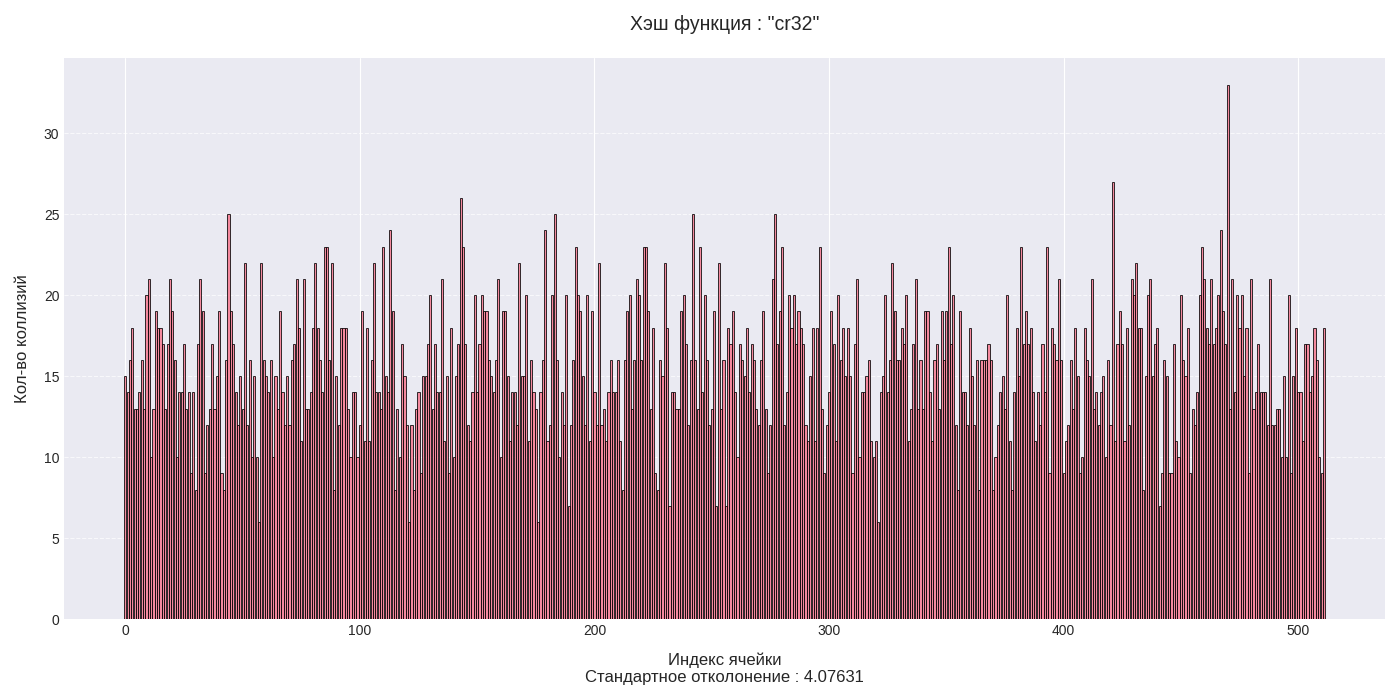
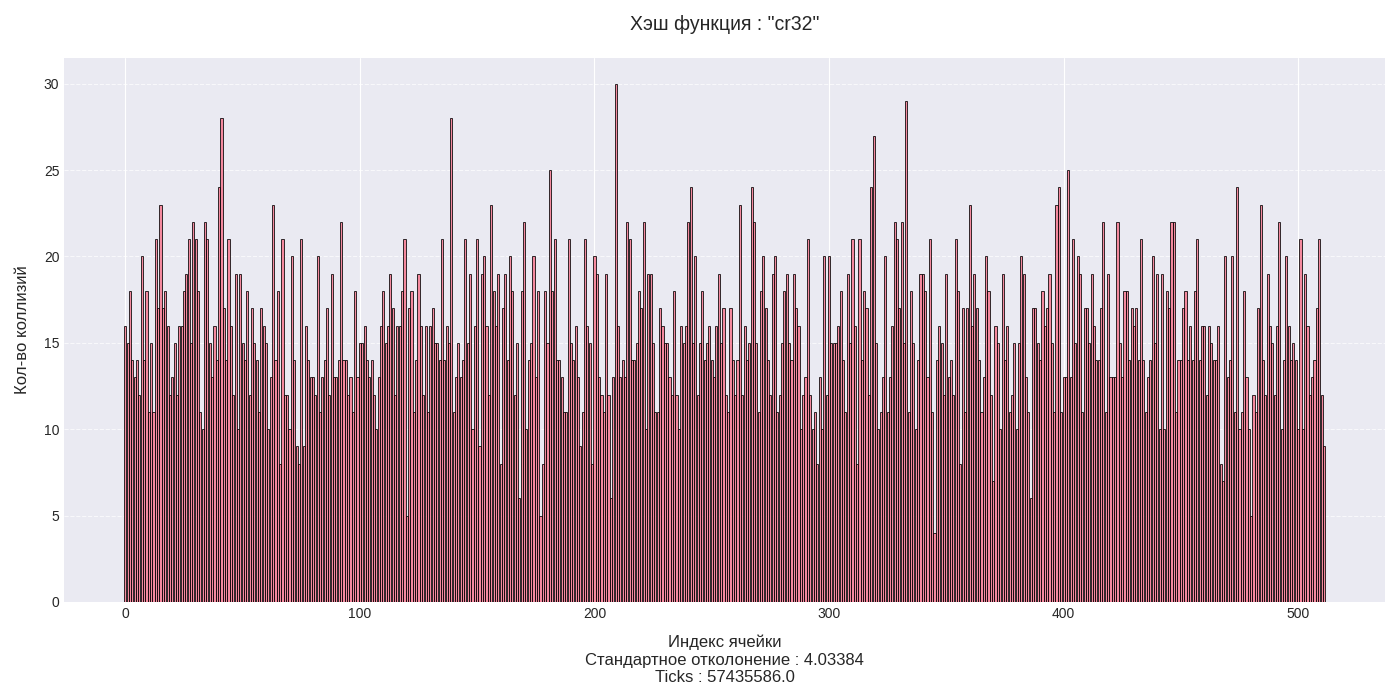
done hash functions analysis

Changed region(s): [[0.0614, 0.27, 0.9521, 0.72], [0.0921, 0.84, 0.9521, 0.99], [0.0, 0.39, 0.0307, 0.57]]

diff --git a/run.py b/run.py
@@ -8,14 +8,14 @@ import matplotlib.pyplot as plt
 import seaborn as sns
 
 # CONFIG
-HASH_FUNCS_NAMES = ["poly", "cr32", "fchar", "fnv"]
+HASH_FUNCS_NAMES = ["poly", "cr32", "cr32_intrinsic", "fchar", "fnv"]
 
 VERSIONS_DESCRIPTIONS = [
-        ["VERSION_0", "-march=native"],
-        ["VERSION_1", "-O3 -march=native -mtune=native"],
-        ["VERSION_2", "-O3 -march=native -mtune=native -D INTRINSIC_HASH"],
-        ["VERSION_3", "-O3 -march=native -mtune=native -D INTRINSIC_HASH -D MY_STREQ"],
-        ["VERSION_4", "-O3 -march=native -mtune=native -D INTRINSIC_HASH -D MY_STREQ -D ASM_INSERTION"]
+        ["VERSION_0", "-O0 -march=native", " --hash=cr32 "],
+        ["VERSION_1", "-O3 -march=native -mtune=native", " --hash=cr32 "],
+        ["VERSION_2", "-O3 -march=native -mtune=native", " --hash=cr32_intrinsic "],
+        ["VERSION_3", "-O3 -march=native -mtune=native -D MY_STREQ", " --hash=cr32_intrinsic "],
+        ["VERSION_4", "-O3 -march=native -mtune=native -D MY_STREQ -D ASM_INSERTION", " --hash=cr32_intrinsic "]
     ]
 
 
@@ -53,6 +53,7 @@ def prepare_testing_data(text_path, text_words_cnt, tests_cnt):
 
 # GENERAL_BENCHMARKING_FUNCS
 def execute_hash_tables_benchmarks(compile_flags, launch_flags):
+    print(f'compile_flags : {compile_flags}')
     os.system("make clean")
     os.system(f'make CFLAGS="{compile_flags}"')
     os.system(f'make launch LAUNCH_FLAGS="{launch_flags}"')
@@ -99,25 +100,28 @@ def launch_versions_benchmarks(measures_cnt):
 
     os.system(f'mkdir -p {outfile_dir}')
 
-    default_launch_flags = f'--runs={measures_cnt} --hash_func=cr32 --benchmark=ver --print=0'
+    default_launch_flags = f' --runs={measures_cnt} --benchmark=ver --print=0 '
 
     with open(outfile_path, "w") as file:
         for version in VERSIONS_DESCRIPTIONS:
             version_name = version[0]
             print(f'LAUNCH {version_name}')
+
             compile_flags = version[1]
-            file.write(f'{version_name} : {get_version_testing_time(compile_flags, default_launch_flags)}\n')
+            launch_flags = version[2] + default_launch_flags
+            file.write(f'{version_name} : {get_version_testing_time(compile_flags, launch_flags)}\n')
+
 
 
 # FUNCS FOR HASH FUNCTIONS BENCHMARKING
 def make_hash_res_file(outfile_path, hash_func_name):
-    compile_flags = ""
-    launch_flags = f' --output={outfile_path} --hash_func={hash_func_name} --benchmark=hash --print=0'
+    compile_flags = "-O3 -march=native -mtune=native"
+    launch_flags = f' --output={outfile_path} --hash={hash_func_name} --benchmark=hash --print=0'
 
     execute_hash_tables_benchmarks(compile_flags, launch_flags)
 
     with open(outfile_path, "r") as file:
-        measures_arr = list(map(int, file.read().split()))
+        measures_arr = list(map(int, file.readline().split()))
 
     standard_deviation = get_standard_deviation(measures_arr)
     with open(outfile_path, "a") as file:
@@ -126,6 +130,7 @@ def make_hash_res_file(outfile_path, hash_func_name):
 def build_hash_plot(data_path, img_path, hash_func_name):
     with open(data_path, "r") as file:
         measures_arr = list(map(int, file.readline().split()))
+        ticks_cnt = float(file.readline().split()[1])
         standard_deviation = float(file.readline().split()[1])
 
     plt.style.use('seaborn-v0_8-darkgrid')
@@ -138,7 +143,7 @@ def build_hash_plot(data_path, img_path, hash_func_name):
                 alpha=0.8, width=0.9)
 
     plt.title(f'Хэш функция : "{hash_func_name}"', fontsize=14, pad=20)
-    plt.xlabel(f'Индекс ячейки\nСтандартное отколонение : {round(standard_deviation, 5)}', fontsize=12, labelpad=10)
+    plt.xlabel(f'Индекс ячейки\nСтандартное отколонение : {round(standard_deviation, 5)}\nTicks : {ticks_cnt}', fontsize=12, labelpad=10)
     plt.ylabel('Кол-во коллизий', fontsize=12, labelpad=10)
     plt.yticks(fontsize=10)
 
@@ -231,7 +236,7 @@ if __name__ == "__main__":
     elif (sys.argv[1] == "versions_benchmarks"):
         print("launch 'versions_benchmarks'")
         measures_cnt = 20
-        if (len(sys.argv) >= 2):
+        if (len(sys.argv) >= 3):
             measures_cnt = int(sys.argv[2])
 
         launch_versions_benchmarks(measures_cnt)

diff --git a/src/benchmark_funcs.cpp b/src/benchmark_funcs.cpp
@@ -1,3 +1,4 @@
+#include <cstdint>
 #include <cstring>
 #include <immintrin.h>
 #include <assert.h>
@@ -5,6 +6,7 @@
 
 #include "args_proc.h"
 #include "general.h"
+#include "general_structs.h"
 #include "hash_funcs.h"
 #include "hash_table_32b.h"
 #include "benchmark_funcs.h"
@@ -15,6 +17,9 @@ hash_function_t choose_hash_function(char hash_function_name[]) {
 
     hash_function_t DEFAULT_HASH_FUNCTION = crc32_hash_func;
 
+    if (strncmp(hash_function_name, "cr32_intrinsic", MAX_CONFIG_NAME_SIZE) == 0) {
+        return crc32_intrinsic_hash_func;
+    }
     if (strncmp(hash_function_name, "cr32", MAX_CONFIG_NAME_SIZE) == 0) {
         return crc32_hash_func;
     }
@@ -27,10 +32,10 @@ hash_function_t choose_hash_function(char hash_function_name[]) {
     if (strncmp(hash_function_name, "fnv", MAX_CONFIG_NAME_SIZE) == 0) {
         return fnv1a_hash;
     }
-
-
     return DEFAULT_HASH_FUNCTION;
 }
+
+
 
 time_point_t set_time_point() {
     time_point_t time_point = {};
@@ -39,6 +44,23 @@ time_point_t set_time_point() {
     time_point.clock_point = clock();
 
     return time_point;
+}
+
+static volatile uint64_t dummy_variable = 0;
+void measure_hashing_time(hash_function_t hash_function, tests_data_t tests_data, time_point_t *duration) {
+    assert(tests_data.words_32b);
+    assert(duration);
+    assert(hash_function);
+
+    time_point_t start_point = set_time_point();
+    for (size_t i = 0; i < tests_data.words_cnt; i++) {
+        char *key_32b = tests_data.words_32b + i * WORD_32B_NMEMB;
+        dummy_variable = hash_function(key_32b, WORD_32B_NMEMB);
+    }
+    time_point_t end_point = set_time_point();
+
+    duration->clock_point = end_point.clock_point - start_point.clock_point;
+    duration->tick_point = end_point.tick_point - start_point.tick_point;
 }
 
 bool measure_testing_time(hash_table_32b_t *hash_table, tests_data_t tests_data, time_point_t *duration) {
@@ -85,6 +107,7 @@ bool run_hashes_benchmarks(config_t *config) {
     tests_data_t tests_data = {};
     FILE *benchmarks_res_file = NULL;
     hash_table_32b_t hash_table = {};
+    time_point_t duration = {};
 
     tests_data = load_text(TEXT_PATH);
     if (tests_data.words_32b == NULL) {
@@ -107,6 +130,9 @@ bool run_hashes_benchmarks(config_t *config) {
 
     store_text_in_hash_table(tests_data, &hash_table);
     hash_table_32b_dump_bucket_sizes(benchmarks_res_file, &hash_table);
+
+    measure_hashing_time(hash_table.hash_function, tests_data, &duration);
+    fprintf(benchmarks_res_file, "ticks %lu\n", duration.tick_point);
 
     free(tests_data.words_32b);
     fclose(benchmarks_res_file);

diff --git a/src/hash_funcs.cpp b/src/hash_funcs.cpp
@@ -2,7 +2,6 @@
 #include <immintrin.h>
 #include <stdint.h>
 
-#include "general_structs.h"
 #include "hash_funcs.h"
 
 
@@ -34,10 +33,8 @@ uint64_t fnv1a_hash(char *key, const size_t len) {
     return hash;
 }
 
-#ifndef INTRINSIC_HASH
-
 uint64_t crc32_hash_func(char *key, const size_t len) {
-    const uint64_t CR32_POLY = 0x04C11DB7;
+    const uint64_t CR32_POLY = 0x11EDC6F41;
     const unsigned char *buffer = (const unsigned char*) key;
     uint64_t crc = (uint64_t) -1;
 
@@ -53,16 +50,14 @@ uint64_t crc32_hash_func(char *key, const size_t len) {
     return ~crc;
 }
 
-#else
 #pragma GCC diagnostic ignored "-Wcast-align"
-uint64_t crc32_hash_func(char *key, const size_t len __attribute__((unused))) {
+uint64_t crc32_intrinsic_hash_func(char *key, const size_t len __attribute__((unused))) {
     uint64_t crc = 0;
 
-    crc = _mm_crc32_u64(crc, *(uint64_t*) key + 0); // FIXME: cast
+    crc = _mm_crc32_u64(crc, *(uint64_t*) key + 0);
     crc = _mm_crc32_u64(crc, *(uint64_t*) key + 1);
     crc = _mm_crc32_u64(crc, *(uint64_t*) key + 2);
     crc = _mm_crc32_u64(crc, *(uint64_t*) key + 3);
 
     return crc;
 }
-#endif // INTRINSIC_HASH

diff --git a/src/args_proc.cpp b/src/args_proc.cpp
@@ -22,7 +22,7 @@ void scan_argv(config_t *config, const int argc, const char *argv[]) {
     opt_data options[] =
     {
         {"-r", "--runs", "%d", &config->measures_cnt},
-        {"-h", "--hash_func", "%s", config->hash_func_name},
+        {"-h", "--hash", "%s", config->hash_func_name},
         {"-o", "--output", "%s", &config->output_path},
         {"-b", "--benchmark", "%s", &config->benchmark},
         {"-p", "--print", "%d", &config->print_state}

diff --git a/inc/hash_funcs.h b/inc/hash_funcs.h
@@ -10,6 +10,7 @@ uint64_t polynom_hash_func(char *key, const size_t len);
 uint64_t crc32_hash_func(char *key, const size_t len);
 uint64_t first_char_hash_func(char *key, const size_t len __attribute__((unused)));
 uint64_t fnv1a_hash(char *key, const size_t len);
+uint64_t crc32_intrinsic_hash_func(char *key, const size_t len __attribute__((unused)));
 
 
 #endif // HASH_FUNCTIONS_H

diff --git a/inc/benchmark_funcs.h b/inc/benchmark_funcs.h
@@ -26,5 +26,6 @@ bool run_versions_benchmarks(config_t *config);
 hash_function_t choose_hash_function(char hash_function_name[]);
 bool run_hashes_benchmarks(config_t *config);
 bool run_load_factor_benchmarks(config_t *config);
+void measure_hashing_time(hash_table_32b_t *hash_table, tests_data_t tests_data, time_point_t *duration);
 
 #endif // BENCHMARK_FUNCS_H

diff --git a/src/hash_table_32b.cpp b/src/hash_table_32b.cpp
@@ -99,7 +99,6 @@ void hash_table_32b_dump_bucket_sizes(FILE *stream, hash_table_32b_t *hash_table
     fprintf(stream, "\n");
 }
 
-
 bool hash_table_32b_insert_key(hash_table_32b_t *hash_table, char *key_32b) {
     assert(hash_table);
 

diff --git a/README.md b/README.md
@@ -68,7 +68,7 @@ uint64_t hash_function(char *key_32b, const size_t len);
 * __intrinsic Поддержка__. Для некоторых хэш-функций были созданы `intrinsics`, использование которых значительно ускоряет их работу.
 
 ### Хэш-функция : "Первый символ"
-Реализация
+__Реализация__
 ```c++
 uint64_t first_char_hash_func(char *key, const size_t len) {
     return (uint64_t) key[0];
@@ -79,11 +79,11 @@ uint64_t first_char_hash_func(char *key, const size_t len) {
 
 __Стандартное отклонение__ : 71.08
 
-Функция не покрывает весь диапазон значений. Большинство значений приходятся на промежуток `[50, 130]`. Не смотря на свою большую скорость, функция неэффективна из-за распределения своих значений.
+Функция не покрывает весь диапазон значений. Большинство значений приходятся на промежуток `[50, 130]`. Не смотря на свою большую скорость, функция неэффективна из-за плохого распределения своих значений.
 
 
 ### Хэш-функция : "Полиномиальная"
-Реализация
+__Реализация__
 ```c++
 uint64_t polynom_hash_func(char *key, const size_t len) {
     uint64_t hash = 0;
@@ -100,10 +100,9 @@ __Стандартное отклонение__ : 3.96
 Функция достаточно хорошо покрывает весь диапазон значений, но у неё `intrinsic` поддержки.
 
 
-
 ### Хэш-функция : "FNV (Fowler–Noll–Vo)"
 
-Реализация
+__Реализация__
 ```c++
 uint64_t fnv1a_hash(char *key, const size_t len) {
     const uint64_t FNV_prime = 0x01000193;
@@ -147,10 +146,58 @@ uint64_t crc32_hash_func(char *key, const size_t len) {
 ```
 ![image](results/hash_funcs/img/cr32.png)
 
-__Стандартное отклонение__ : 3.92
+__Стандартное отклонение__ : 4.07
 
-Хорошая с точки зрения распределения хэш-функция. Есть `intrinsic` поддержка.
+Обладает распределением чуть хуже `FNV` функции, но поддерживает `intrinsic` реализацию.
+
+### Хэш-функция : "CR32_intrinsic"
+Забегая немного вперед, покажу потенциал `intrinsic` реализации функции `CR32`, тем самым обосновав ее дальнейший выбор.
+
+__Реализация__
+```c++
+uint64_t crc32_intrinsic_hash_func(char *key, const size_t len __attribute__((unused))) {
+    uint64_t crc = 0;
+
+    crc = _mm_crc32_u64(crc, *(uint64_t*) key + 0);
+    crc = _mm_crc32_u64(crc, *(uint64_t*) key + 1);
+    crc = _mm_crc32_u64(crc, *(uint64_t*) key + 2);
+    crc = _mm_crc32_u64(crc, *(uint64_t*) key + 3);
+
+    return crc;
+}
+```
+
+![image](results/hash_funcs/img/cr32_intrinsic.png)
+
+__Стандартное отклонение__ : 4.66
+Обладает не самым хорошим распределением, но выйгрывает за счет скорости.
+
+
+## Итоговые результаты сравнения
+Хэш функции были протестированы на входных данных с флагом компиляции `-O3`
+
+Хэш-функция         |   ticks   | стандартное отклонение
+--------------------|-----------|-----------------------
+cr32_intrinsic      | 235224    | 4.66
+cr32                | 19512686  | 4.07
+fchar               | 195208    | 71.08
+fnv                 | 1859450   | 3.92
+poly                | 7821120   | 3.96
+
+Эффективнее всего показала себя хэш-функция `cr32_intrinsic`. Поэтому в дальнейшем будем использовать именно ее.
+
+## Оптимизации хэш-таблицы
+### VERSION_1
+
+Стартовая версия без оптимизаций. Хэш таблица реализована на `non-chache-friendly` односвязных списках.
+Вместо `cr32_intrinsic` выбрана хэш-функция `cr32`, чтобы при дальнейшем анализе показать, что неэффективная реализация хэш-функции может быть узким местом во всей программе.
+
+Флаги компиляции: `-O0 -march=native`
 
 
 
-## Методика профилирования
+
+
+
+
+
